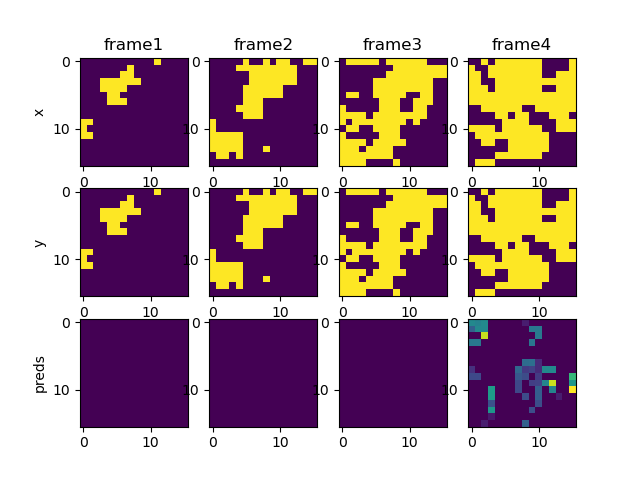
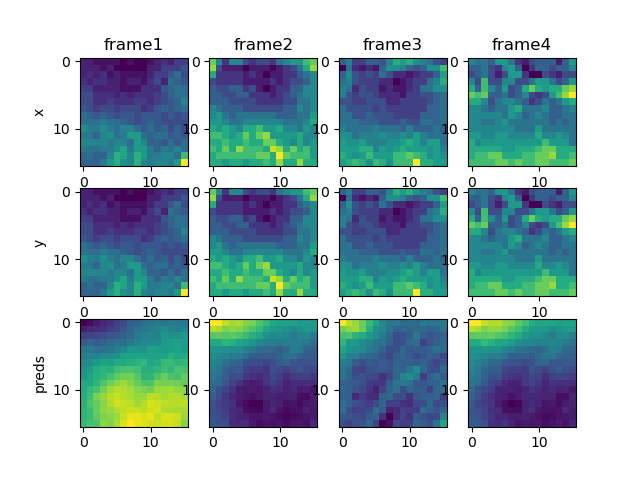
updated visualization

diff --git a/train.py b/train.py
@@ -35,7 +35,6 @@ def plot_history(
 
 def test(model: nn.Module, device, val_test_loader, label="val"):
     model.eval()  # We put the model in eval mode: this disables dropout for example (which we didn't use)
-    print(f"{label=}")
     with t.no_grad():  # Disables the autograd engine
         running_loss = t.tensor(0.0)
         total_length = 0
@@ -67,9 +66,7 @@ def visualize_predictions(
     N_ROWS = 3  # x, y, preds
     _fig, ax = plt.subplots(nrows=N_ROWS, ncols=N_COLS)
     for x, y in loader:
-        x, y = x[:number_of_preds], x[:number_of_preds]
-        x, y = fix_sizes(x, y)
-        x, y = x.to(device), y.to(device)
+        x, y = x[:number_of_preds], y[:number_of_preds]
         preds = model(x)
 
         for i, row in enumerate(ax):
@@ -157,6 +154,7 @@ def train(
             print(f"LR: {param_group['lr']}")
         for x, y in tqdm(train_loader):
             # N(batch size), H,W(feature number) = 256,256, T(time steps) = 4, V(vertices, # of cities) = 5
+            ipdb.set_trace()
             optimizer.zero_grad()
             y_hat = model(x)  # Implicitly calls the model's forward function
             loss = criterion(y_hat, y)

diff --git a/data_loader.py b/data_loader.py
@@ -260,9 +260,10 @@ def test():
     for x, y in tqdm(train_loader):
         # print(f"{x.shape=}")
         # print(f"{y.shape=}")
-        assert (
-            x.shape[1] == 4 and y.shape[1] == 4
-        ), f"error, {x.shape=} {y.shape=}"
+        # assert (
+        #    x.shape[1] == 4 and y.shape[1] == 4
+        # ), f"error, {x.shape=} {y.shape=}"
+        assert y.tolist() != x.tolist(), f"error, these are the same! {i}"
         total_length += len(x)
         i += 1
     for x, y in tqdm(train_loader):

diff --git a/experiments/experiment_local/config.py b/experiments/experiment_local/config.py
@@ -4,7 +4,7 @@ from convolutional_gat.model import TemporalModel
 from convolutional_gat.data_loader import Task
 
 MODEL = TemporalModel()
-EPOCHS = 30
+EPOCHS = 3
 TRAIN_BATCH_SIZE = 32
 TEST_BATCH_SIZE = 32
 LEARNING_RATE = 0.001
